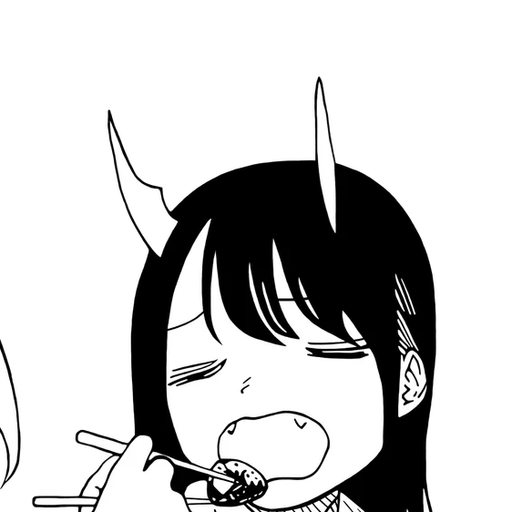
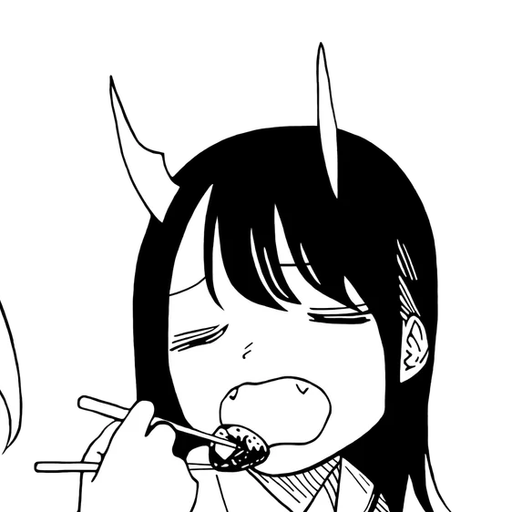
chore(hero): bake the user's tuned framing, drop the flexing panel
Framing boxes come from the hero editor's saved tuning (drag/zoom per
circle); ruri10 leaves the pool per taste. Nine tuned crops plus the
original face — HERO_COUNT down to 10, fixture pin follows.

Claude-Session: https://claude.ai/code/session_01Dysz7nYpJujWrpKQmpbSzn

Changed region(s): [[0.0, 0.0938, 0.875, 1.0]]

diff --git a/web/src/hero.ts b/web/src/hero.ts
@@ -4,17 +4,17 @@
  * a new project gets a random face that then stays put.
  */
 
-export const HERO_COUNT = 11;
+export const HERO_COUNT = 10;
 
 /** Fixture/screenshot runs must be deterministic — pin the original face. */
 const pinned = typeof location !== "undefined" && location.search.includes("fixture");
 
 /** Rolled once per page load — a new face every time the app opens. */
-export const launchHero = pinned ? 11 : Math.floor(Math.random() * HERO_COUNT) + 1;
+export const launchHero = pinned ? 10 : Math.floor(Math.random() * HERO_COUNT) + 1;
 
 /** Stable per project: hash the id into a variant. */
 export function heroFor(id: string): number {
-  if (pinned) return 11;
+  if (pinned) return 10;
   let h = 0;
   for (const c of id) h = (h * 31 + c.charCodeAt(0)) >>> 0;
   return (h % HERO_COUNT) + 1;
